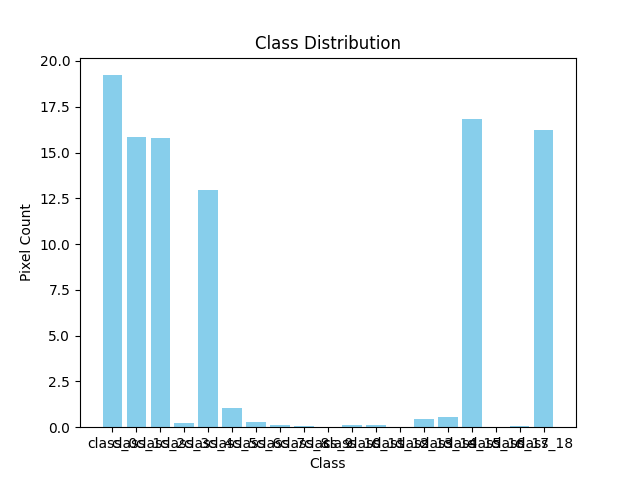
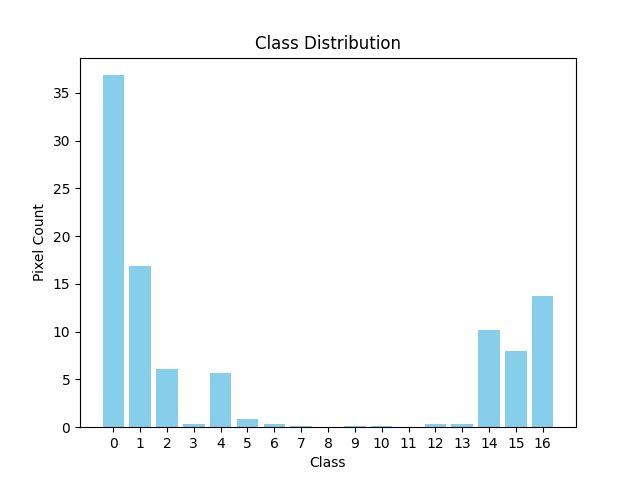
version parallel, get histogram and all stat mask with name files

diff --git a/genclassbalancer/utils.py b/genclassbalancer/utils.py
@@ -1,7 +1,100 @@
 # utils.py
-import numpy as np
+from multiprocessing import Pool, cpu_count
 import pandas as pd
+import numpy as np
 
+
+
+def process_mask(args):
+    """
+    Функция для обработки одной маски. Вызывается в параллельных процессах.
+
+    Parameters:
+    args (tuple): Кортеж из имени файла, маски и цветов классов.
+
+    Returns:
+    list: Статистика для одного файла в формате [имя файла, кол-во пикселей для каждого класса].
+    """
+    filename, mask, class_colors = args
+    num_classes = len(class_colors)
+    class_counts = np.zeros(num_classes, dtype=int)
+
+    # Считаем количество пикселей для каждого класса
+    c_id = 0
+    for class_id, color in class_colors.items():
+        class_counts[c_id] += np.sum(np.all(mask == color, axis=-1))
+        c_id += 1
+
+    return [filename] + class_counts.tolist()
+
+
+def calculate_class_distribution_stat_file_parallel(masks_dict, class_colors, num_processes=1, output_csv='stat_mask.csv'):
+    """
+    Параллельное вычисление распределения классов по маскам и сохранение статистики в CSV файл.
+
+    Parameters:
+    masks_dict (dict): Словарь, где ключ - название файла, значение - маска в виде numpy массива
+    class_colors (dict): Словарь цветов классов {класс: (R, G, B)}
+    output_csv (str): Путь к выходному CSV-файлу, по умолчанию 'stat_mask.csv'
+
+    Returns:
+    pd.DataFrame: DataFrame с распределением классов для каждой маски
+    """
+    # Подготовка данных для параллельной обработки
+    tasks = [(filename, mask, class_colors) for filename, mask in masks_dict.items()]
+
+
+    # Параллельная обработка масок
+    with Pool(processes=num_processes) as pool:
+        results = pool.map(process_mask, tasks)
+
+    # Создаем DataFrame
+    num_classes = len(class_colors)
+    columns = ['filename'] + [f'class_{i}' for i in range(num_classes)]
+    df = pd.DataFrame(results, columns=columns)
+
+    # Сохраняем DataFrame в CSV
+    df.to_csv(output_csv, index=False)
+    print(f"Статистика сохранена в файл: {output_csv}")
+
+    return df
+
+def calculate_class_distribution_stat_file(masks_dict, class_colors, output_csv='stat_mask.csv'):
+    """
+    Считает распределение классов по маскам и сохраняет статистику в CSV файл.
+
+    Parameters:
+    masks_dict (dict): Словарь, где ключ - название файла, значение - маска в виде numpy массива
+    class_colors (dict): Словарь цветов классов {класс: (R, G, B)}
+    output_csv (str): Путь к выходному CSV-файлу, по умолчанию 'stat_mask.csv'
+
+    Returns:
+    pd.DataFrame: DataFrame с распределением классов для каждой маски
+    """
+    num_classes = len(class_colors)
+    stats = []
+
+    for filename, mask in masks_dict.items():
+        class_counts = np.zeros(num_classes, dtype=int)
+
+        # Считаем количество пикселей для каждого класса
+        c_id = 0
+        for class_id, color in class_colors.items():
+            class_counts[c_id] += np.sum(np.all(mask == color, axis=-1))
+            c_id+=1
+
+        # Сохраняем статистику в формате: [имя файла, кол-во пикселей для каждого класса]
+        stats.append([filename] + class_counts.tolist())
+
+    # Создаем DataFrame
+    columns = ['filename'] + [f'class_{i}' for i in range(num_classes)]
+    df = pd.DataFrame(stats, columns=columns)
+
+    # Сохраняем DataFrame в CSV
+    df.to_csv(output_csv, index=False)
+    print(f"Статистика сохранена в файл: {output_csv}")
+
+    return df
 
 def calculate_class_distribution(masks_dict, class_colors, output_csv_path):
     """

diff --git a/genclassbalancer/class_colors.py b/genclassbalancer/class_colors.py
@@ -12,27 +12,27 @@ class_colors_hessinheim = {
     10: (255, 255, 0),  # Chimney - Дымоход
 }
 
-class_colors_stpls3d = {
-    0: (0, 0, 0),          # Ground - Черный ----------------
-    1: (0, 255, 0),       # Building - Зеленый -------------------
-    2: (255, 255, 0),     # LowVegetation - Желтый -----------------
-    3: (0, 0, 255),       # MediumVegetation - Синий
-    4: (255, 0, 0),       # HighVegetation - Красный ---------------
-    5: (0, 255, 255),     # Vehicle - Бирюзовый
-    6: (255, 0, 255),     # Truck - Магента
-    7: (255, 128, 0),     # Aircraft - Оранжевый
-    8: (128, 128, 128),   # MilitaryVehicle - Серый
-    9: (255, 20, 147),    # Bike - Deep Pink
-    10: (255, 69, 0),     # Motorcycle - Красный Апельсин
-    11: (210, 180, 140),  # LightPole - Бежевый
-    12: (255, 105, 180),  # StreetSign - Hot Pink
-    13: (165, 42, 42),    # Clutter - Коричневый
-    14: (139, 69, 19),     # Fence - Темно-коричневый
-    15: (128, 0, 128),    # Road - Фиолетовый----------------------------------
-    16: (255, 255, 255),   # Windows - Белый
-    17: (222, 184, 135),   # Dirt - Седой
-    18: (127, 255, 0),     # Grass - Ярко-зеленый ----------------------
-}
+# class_colors_stpls3d = {
+#     0: (0, 0, 0),          # Ground - Черный ----------------
+#     1: (0, 255, 0),       # Building - Зеленый -------------------
+#     2: (255, 255, 0),     # LowVegetation - Желтый -----------------
+#     3: (0, 0, 255),       # MediumVegetation - Синий
+#     4: (255, 0, 0),       # HighVegetation - Красный ---------------
+#     5: (0, 255, 255),     # Vehicle - Бирюзовый
+#     6: (255, 0, 255),     # Truck - Магента
+#     7: (255, 128, 0),     # Aircraft - Оранжевый
+#     8: (128, 128, 128),   # MilitaryVehicle - Серый
+#     9: (255, 20, 147),    # Bike - Deep Pink
+#     10: (255, 69, 0),     # Motorcycle - Красный Апельсин
+#     11: (210, 180, 140),  # LightPole - Бежевый
+#     12: (255, 105, 180),  # StreetSign - Hot Pink
+#     13: (165, 42, 42),    # Clutter - Коричневый
+#     14: (139, 69, 19),     # Fence - Темно-коричневый
+#     15: (128, 0, 128),    # Road - Фиолетовый----------------------------------
+#     16: (255, 255, 255),   # Windows - Белый
+#     17: (222, 184, 135),   # Dirt - Седой
+#     18: (127, 255, 0),     # Grass - Ярко-зеленый ----------------------
+# }
 
 
 class_colors_toronto3D = {
@@ -56,4 +56,25 @@ class_colors_test_2 = {
     0: (0, 0, 0),  # Unclassified - Черный
     1: (255, 255, 255),  # Ground - Белый
     2: (0, 255, 255),  # Ground - Белый
+}
+
+# 20 - 1 (16) - 1 (17) - 1 (8) = 17 классов
+class_colors_stpls3d = {
+    0: (0, 0, 0),  # Ground - Черный
+    1: (128, 128, 128),  # Building - Зеленый           1==17
+    2: (255, 255, 0),  # LowVegetation - Желтый
+    3: (0, 0, 255),  # MediumVegetation - Синий
+    4: (255, 0, 0),  # HighVegetation - Красный
+    5: (0, 255, 255),  # Vehicle - Бирюзовый
+    6: (255, 0, 255),  # Truck - Магента
+    7: (255, 128, 0),  # Aircraft - Оранжевый
+    9: (255, 20, 147),  # Bike - Deep Pink
+    10: (255, 69, 0),  # Motorcycle - Красный Апельсин
+    11: (210, 180, 140),  # LightPole - Бежевый
+    12: (255, 105, 180),  # StreetSign - Hot Pink
+    13: (165, 42, 42),  # Clutter - Коричневый
+    14: (139, 69, 19),  # Fence - Темно-коричневый
+    15: (128, 0, 128),  # Road - Фиолетовый
+    18: (222, 184, 135),  # Dirt - Седой
+    19: (127, 255, 0),  # Grass - Ярко-зеленый
 }

diff --git a/genclassbalancer/urils_parallel.py b/genclassbalancer/urils_parallel.py
@@ -1,0 +1,73 @@
+import numpy as np
+import pandas as pd
+from multiprocessing import Pool
+from genclassbalancer.class_colors import class_colors_stpls3d
+from genclassbalancer.data_loader import load_masks_dict
+
+import numpy as np
+import pandas as pd
+from multiprocessing import Pool
+
+def process_mask(mask_item, class_colors):
+    """
+    Обрабатывает одну маску для вычисления количества пикселей каждого класса.
+
+    Parameters:
+    mask_item (tuple): Кортеж (имя_файла, маска)
+    class_colors (dict): Словарь цветов классов {класс: (R, G, B)}
+
+    Returns:
+    list: Список с именем файла и количеством пикселей для каждого класса.
+    """
+    file_name, mask = mask_item
+    class_pixel_counts = [np.sum(np.all(mask == color, axis=-1)) for color in class_colors.values()]
+    return [file_name] + class_pixel_counts
+
+def calculate_class_distribution_parallel(masks_dict, class_colors, output_csv_path, num_workers = 1):
+    """
+    Считает распределение классов по маскам и сохраняет результаты в CSV файл параллельно.
+
+    Parameters:
+    masks_dict (dict): Словарь, где ключ - это имя файла, а значение - маска (RGB-изображение)
+    class_colors (dict): Словарь цветов классов {класс: (R, G, B)}
+    output_csv_path (str): Путь для сохранения CSV файла
+
+    Returns:
+    np.ndarray: Матрица, где строки - классы, столбцы - маски, а значения - количество пикселей данного класса.
+    """
+    # Преобразуем словарь в список для передачи в Pool
+    masks_list = list(masks_dict.items())
+
+    # Параллельная обработка масок
+    with Pool(processes=num_workers) as pool:
+        results = pool.starmap(process_mask, [(mask_item, class_colors) for mask_item in masks_list])
+
+    # Создаем DataFrame с названиями классов
+    column_names = ['file_name'] + [f'class_{class_id}' for class_id in class_colors.keys()]
+    df = pd.DataFrame(results, columns=column_names)
+
+    # Сохраняем DataFrame в CSV файл
+    df.to_csv(output_csv_path, index=False)
+
+    # Создаем матрицу распределения классов
+    distribution_matrix = df.iloc[:, 1:].values.T  # Преобразуем DataFrame в np.ndarray
+
+    return distribution_matrix
+
+
+
+if __name__ == '__main__':
+    import time
+    # Путь к выходному CSV файлу
+    output_csv_path = 'class_distribution.csv'
+    class_colors = class_colors_stpls3d
+    mask_dir = r'D:\data\data_for_training\data_training_stpl3d_64_512\train\segment'
+    masks_dict = load_masks_dict(mask_dir)
+    # Запускаем параллельную функцию для подсчета распределения классов
+    start = time.time()
+    distribution_matrix = calculate_class_distribution_parallel(masks_dict,
+                                                                class_colors,
+                                                                output_csv_path,
+                                                                num_workers=7)
+    end = time.time()
+    print(round(end-start))

diff --git a/example_load_stat_df_hist.py b/example_load_stat_df_hist.py
@@ -1,0 +1,36 @@
+# Использования - начальное распределение
+from genclassbalancer.data_loader import load_masks_dict
+from genclassbalancer.utils import calculate_class_distribution_stat_file_parallel, calculate_overall_class_distribution
+from genclassbalancer.visualizer import plot_class_distribution, save_class_distribution_table
+from genclassbalancer.class_colors import class_colors_stpls3d  # Импортируем словарь с цветами классов
+import json
+import time
+
+
+if __name__ == '__main__':
+    # Чтение конфигурации из JSON
+    with open("config.json", "r") as f:
+        config = json.load(f)
+
+    # Использование переменных
+    mask_dir = config["MASK_DIR"]
+
+    class_colors = class_colors_stpls3d
+    # 1. Загрузка масок
+    masks_dict = load_masks_dict(mask_dir)
+    # 2. Расчёт распределения классов
+    num_classes = len(class_colors)  # Указываем количество классов на основе длины словаря
+    start = time.time()
+    df = calculate_class_distribution_stat_file_parallel(masks_dict, class_colors, num_processes=7, output_csv='stat_mask.csv')
+    end = time.time()
+    time_processing = end - start
+    print(f'Time processing {round(time_processing)}s')
+    class_distribution = calculate_overall_class_distribution(df)
+
+    print(class_distribution)
+
+    # 3. Визуализация и сохранение результатов
+    output_dir = './output'
+    plot_class_distribution(class_distribution, f'{output_dir}/class_distribution.png')
+    save_class_distribution_table(class_distribution, f'{output_dir}/class_distribution.csv')
+

diff --git a/genclassbalancer/data_loader.py b/genclassbalancer/data_loader.py
@@ -3,6 +3,26 @@ import os
 import numpy as np
 from PIL import Image
 
+
+def load_masks_dict(mask_dir):
+    """
+    Загружает маски из директории и возвращает словарь с названиями файлов и масками.
+
+    Parameters:
+    mask_dir (str): Путь к директории с масками
+
+    Returns:
+    dict: Словарь, где ключ - это название файла, а значение - маска в виде numpy массива
+    """
+    masks_dict = {}
+    for filename in os.listdir(mask_dir):
+        if filename.endswith(('.png', '.jpg', '.jpeg', '.tiff', '.bmp')):
+            mask_path = os.path.join(mask_dir, filename)
+            mask = Image.open(mask_path)
+            masks_dict[filename] = np.array(mask)
+
+    return masks_dict
+
 def load_masks(mask_dir):
     """
     Загружает маски из директории.

diff --git a/genclassbalancer/visualizer.py b/genclassbalancer/visualizer.py
@@ -18,6 +18,8 @@ def plot_class_distribution(distribution, output_path=None):
     plt.xlabel('Class')
     plt.ylabel('Pixel Count')
     plt.title('Class Distribution')
+    # Добавляем метки на оси X
+    plt.xticks(ticks=classes, labels=[f'{ind}' for ind, cls in enumerate(classes)])
 
     if output_path:
         # Проверка, существует ли директория, и создание её, если нет
